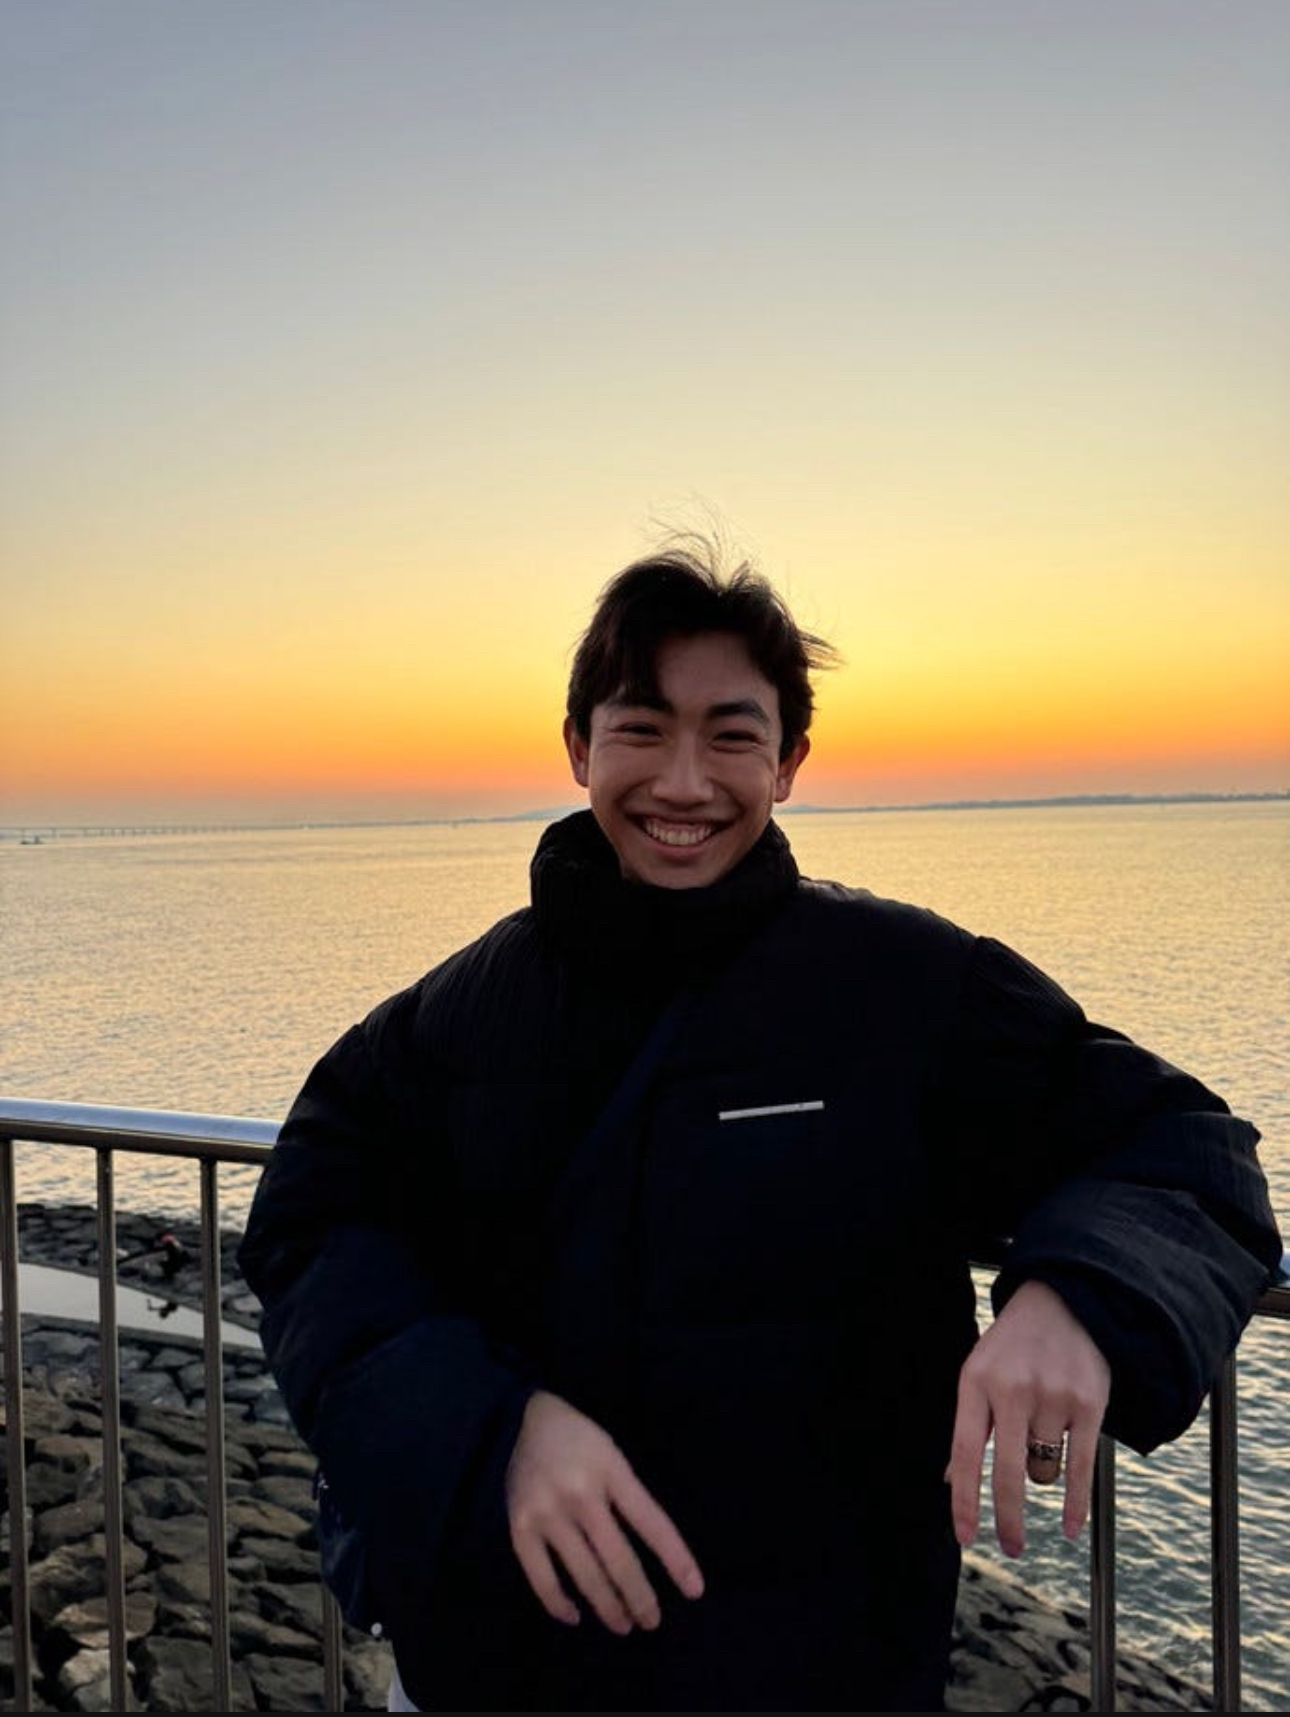
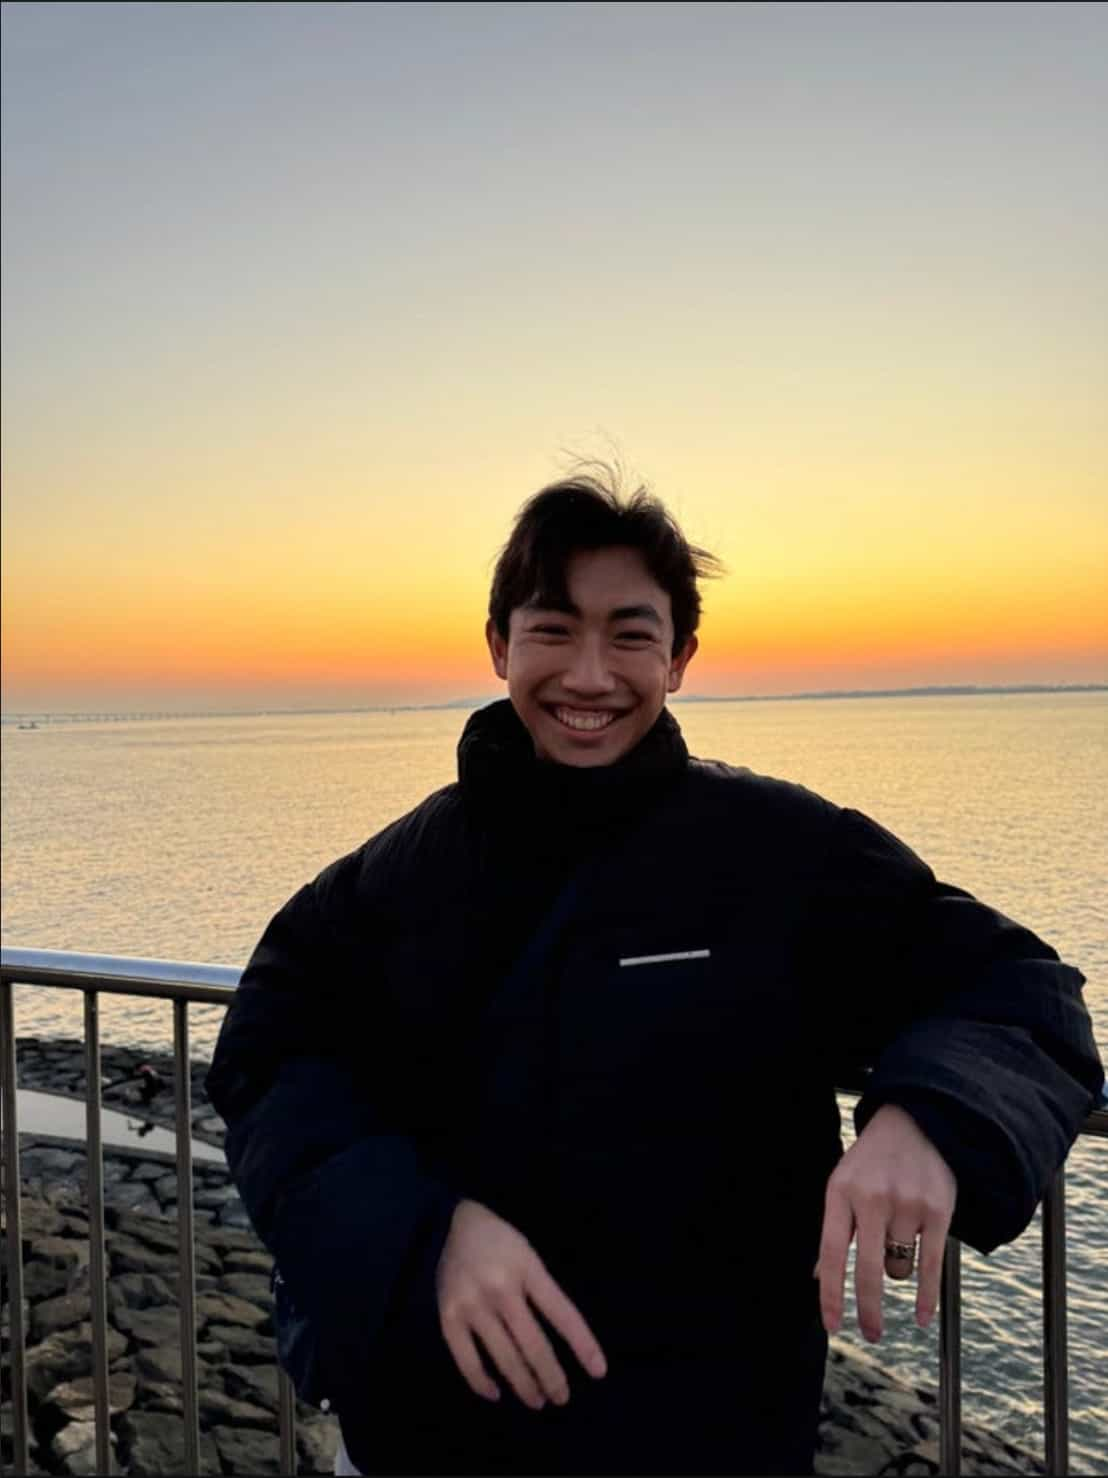
Resized images to optimize efficiency

diff --git a/src/app/components/Hero.tsx b/src/app/components/Hero.tsx
@@ -3,7 +3,7 @@ import Image from "next/image"
 
 const imageStyle = {
     borderRadius: "50%",
-    border: "5px double var(--foreground)"
+    border: "5px double var(--foreground)",
 }
 
 const Hero = () => {

diff --git a/src/app/projects/projects.module.css b/src/app/projects/projects.module.css
@@ -26,3 +26,7 @@
     text-align: center; 
   }
 
+  .url:hover {
+    text-size-adjust: 48;
+    color:blue;
+}

diff --git a/src/app/components/navbar.module.css b/src/app/components/navbar.module.css
@@ -6,6 +6,5 @@
 }
 
 .links:hover {
-    text-size-adjust: 48;
     color:blue;
 }
